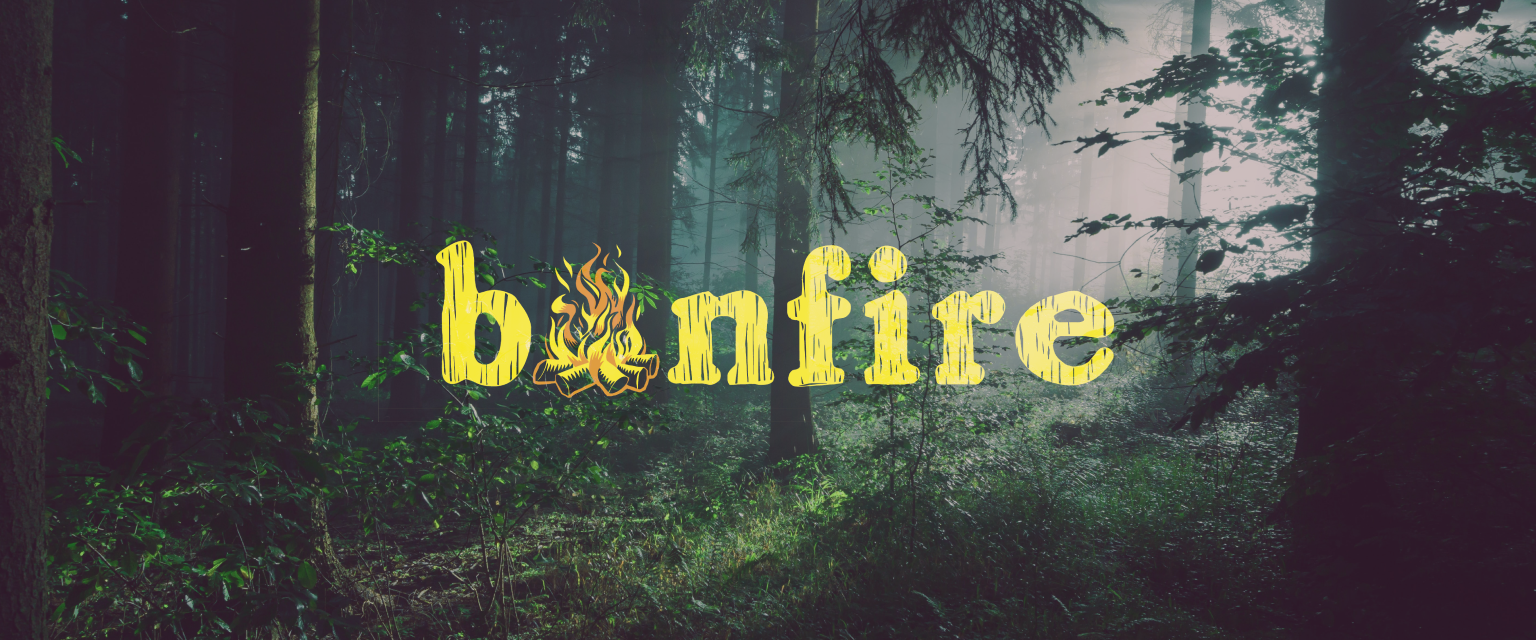
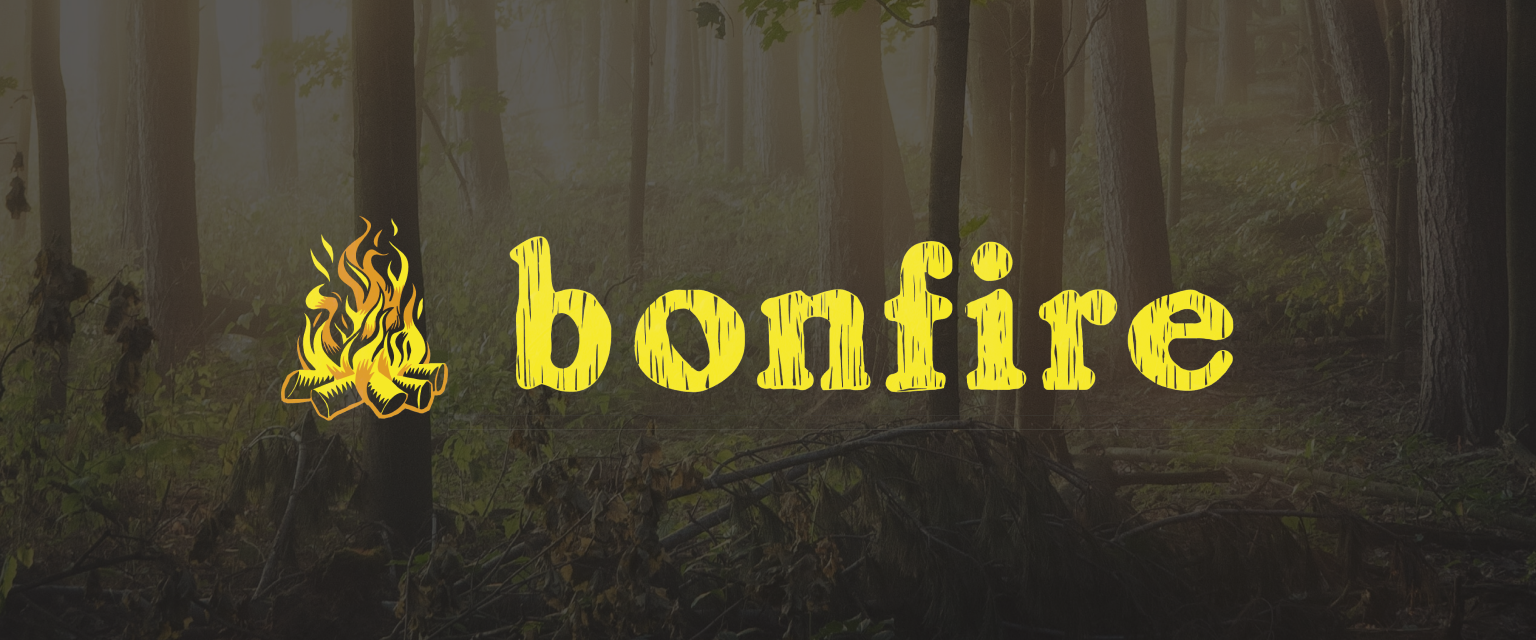
blog

diff --git a/posts/bonfire_identity.md b/posts/bonfire_identity.md
@@ -1,53 +1,41 @@
 ---
-title: Behind our new brand
-description: This is a post on My Blog about touchpoints and circling wagons.
-date: 2018-09-30
-tags: logo
-image: /img/brand2.png
+title: The story of Bonfire's visual identity
+description: Our journey through brainstorming and creating the bonfire logo and font
+date: 2021-05-21
+tags: [branding, visual identity, logo]
+image: /img/brand.png
 layout: layouts/post.njk
 ---
 
 
-As [Anna Tsing](https://en.wikipedia.org/wiki/Anna_Tsing) wrote in her marvellous book **Mushroom at the end of the world** : 
-
 > Everyone carries a history of contamination, purity is not an option.
 
-This short sentence largely includes lot of the visions and needs that shaped our last years of development around Bonfire.
+This short sentence by [Anna Tsing](https://en.wikipedia.org/wiki/Anna_Tsing) wrote in [Mushroom at the end of the world](https://en.wikipedia.org/wiki/The_Mushroom_at_the_End_of_the_World) encompasses a lot of the visions and needs that inspired our work on Bonfire.
 
-As we - in the first place - are building this piece of software for us and for the communities we care about, we strive for diversity and flexibility in every aspect of the bonfire codebase.
+We are building this piece of software for us and for the diverse communities we care about, so we strive for diversity and flexibility in every aspect of the Bonfire codebase. 
 
-We want each bonfire instance to be different and unique in its own particular way, until it serves the same range of purposes of all the other bonfires:
+We want each Bonfire instance to be autonomous and unique in its own particular way, while having a shared purpose with the other bonfires:
 
-To create a safe place for users to stay, interact and create their own culture, remaining in control of their own activities and data - meanwhile being able to communicate with the fediverse at their own pace and under their own conditions.
+> To create safe environments for users to inhabit and create their own culture together, while remaining in control of their personal data and experience, and being able to communicate with the fediverse at their own pace and on their own terms. 
 
-It is no wonder then that words like **contamination**, **diversity**, **anarchism**, **ecosystem**, and **bottom up** were the most used during our brainstorming about the new bonfire branding.
+It was no surprise that words like **contamination**, **burn**, **revolution**, **rebirth**, **bottom up**, **diverse**, **autonomous**, **nature** and **ecosystem** were among the most used during our brainstorming about Bonfire's visual identity. 
 
-We all firmly agreed from the beginning that the Bonfire visual identity must reflect such topics without obfuscating itself under an overly clean and minimalist design. We enjoy navigating through complexity, without the burning desire to control everything.
+We wanted our visual identity to reflect such ideas without obfuscating itself under an overly sanitised and minimalist design. We enjoy navigating through complexity, without the burning desire to be in control of everything, and wanted to avoid the flat, metallo-plastic, stark, silicon valley style that has dominated the web in recent years. 
 
-Other than a social network, bonfire is a playground and experimentation platform, we are learning to take care of it and take care of ourselves through it - building it in the open so that the experience can be expanded to many other peers.
+Other than a social network, Bonfire is a playground and experimentation platform, we are learning how to take care of it and take care of ourselves - building in the open so that Bonfire can become an ecosystem open to many other peers. 
 
-We had the pleasure to work with [Rocco Lombardi](http://lalberosfregiato.blogspot.com/), a talented artist that lives somewhere near the Bolognese Apennines. He guided us and transformed our wishes into awesome illustrations and images.
+We had the pleasure to work with [Rocco Lombardi](http://lalberosfregiato.blogspot.com/), a talented artist living somewhere near the Bolognese Apennines, who guided us and turned our wishes into meaningful visual representations of the project.
 
-We asked Rocco to work with us on the visual identity primarly because of the style and subjects of his artwork.
+We asked Rocco to work on our visual identity primarly because of the style and subjects of his artwork. Forests and trees that emerge by scratching the light away from black paper, animals that fight capitalism, all sort of organics - wild and lived entities contaminate his drawings and we wanted that world to contaminate our software as well.
 
-Forests and trees that emerges by scratching out the light from black paper, animals that fight capitalism, all sort of organics - wild and lived entities contaminate his drawings and we wanted that world to contaminate bonfire software as well.
-
-![](https://assets.bigcartel.com/product_images/289126995/received_2539778439655586.jpeg?auto=format&fit=max&w=600)
-<figcaption class="-mt-6 italic text-gray-400 text-base block">"Mother Whale" - <a href="https://roccolombardi.bigcartel.com/product/mother-whale" target="blank">Link</a></figcaption>
-
-![](https://assets.bigcartel.com/product_images/287618616/4+Menade.jpg?auto=format&fit=max&w=600)
-<figcaption class="-mt-6 italic text-gray-400 text-base block">"Menade" - <a href="https://roccolombardi.bigcartel.com/product/menade" target="blank">Link</a></figcaption>
 
 ![](https://assets.bigcartel.com/product_images/287784678/Squirrels.jpg?auto=format&fit=max&w=600)
-<figcaption class="-mt-6 italic text-gray-400 text-base block">"Squirrels on the air" - <a href="https://roccolombardi.bigcartel.com/product/squirrels-on-the-air" target="blank">Link</a></figcaption>
+<figcaption class="-mt-6 italic text-gray-400 text-base block">"Squirrels on the air" - Illustration by Rocco Lombardi - <a href="https://roccolombardi.bigcartel.com/product/squirrels-on-the-air" target="blank">Link</a></figcaption>
 
 
+The end result is very much in tune with our expectations, and we hope you like it too.
+
+As we're progressing toward a first release of our software, we are happy to have added this important step and we thank Rocco to have joined us on this journey. :-)
 
 
-The result is definitely in tune with our expectations - as we all agreed to have a visual identity that could replace the flat, metallic, minimalistic, silicon valley style that has dominated the web in recent years - we hope you like it too.
-
-As we're progressing toward a first release of our software, we are happy to have added this important step and we thank Rocco to have joined us on this journey.:)
-
-
-<span class="bg-cover mx-auto mt-16 block bg-center" style="background-image: url(/img/bonfire.png); width: 127px; height: 160px;">
-</span>
+<img src="/img/brand2.png">
